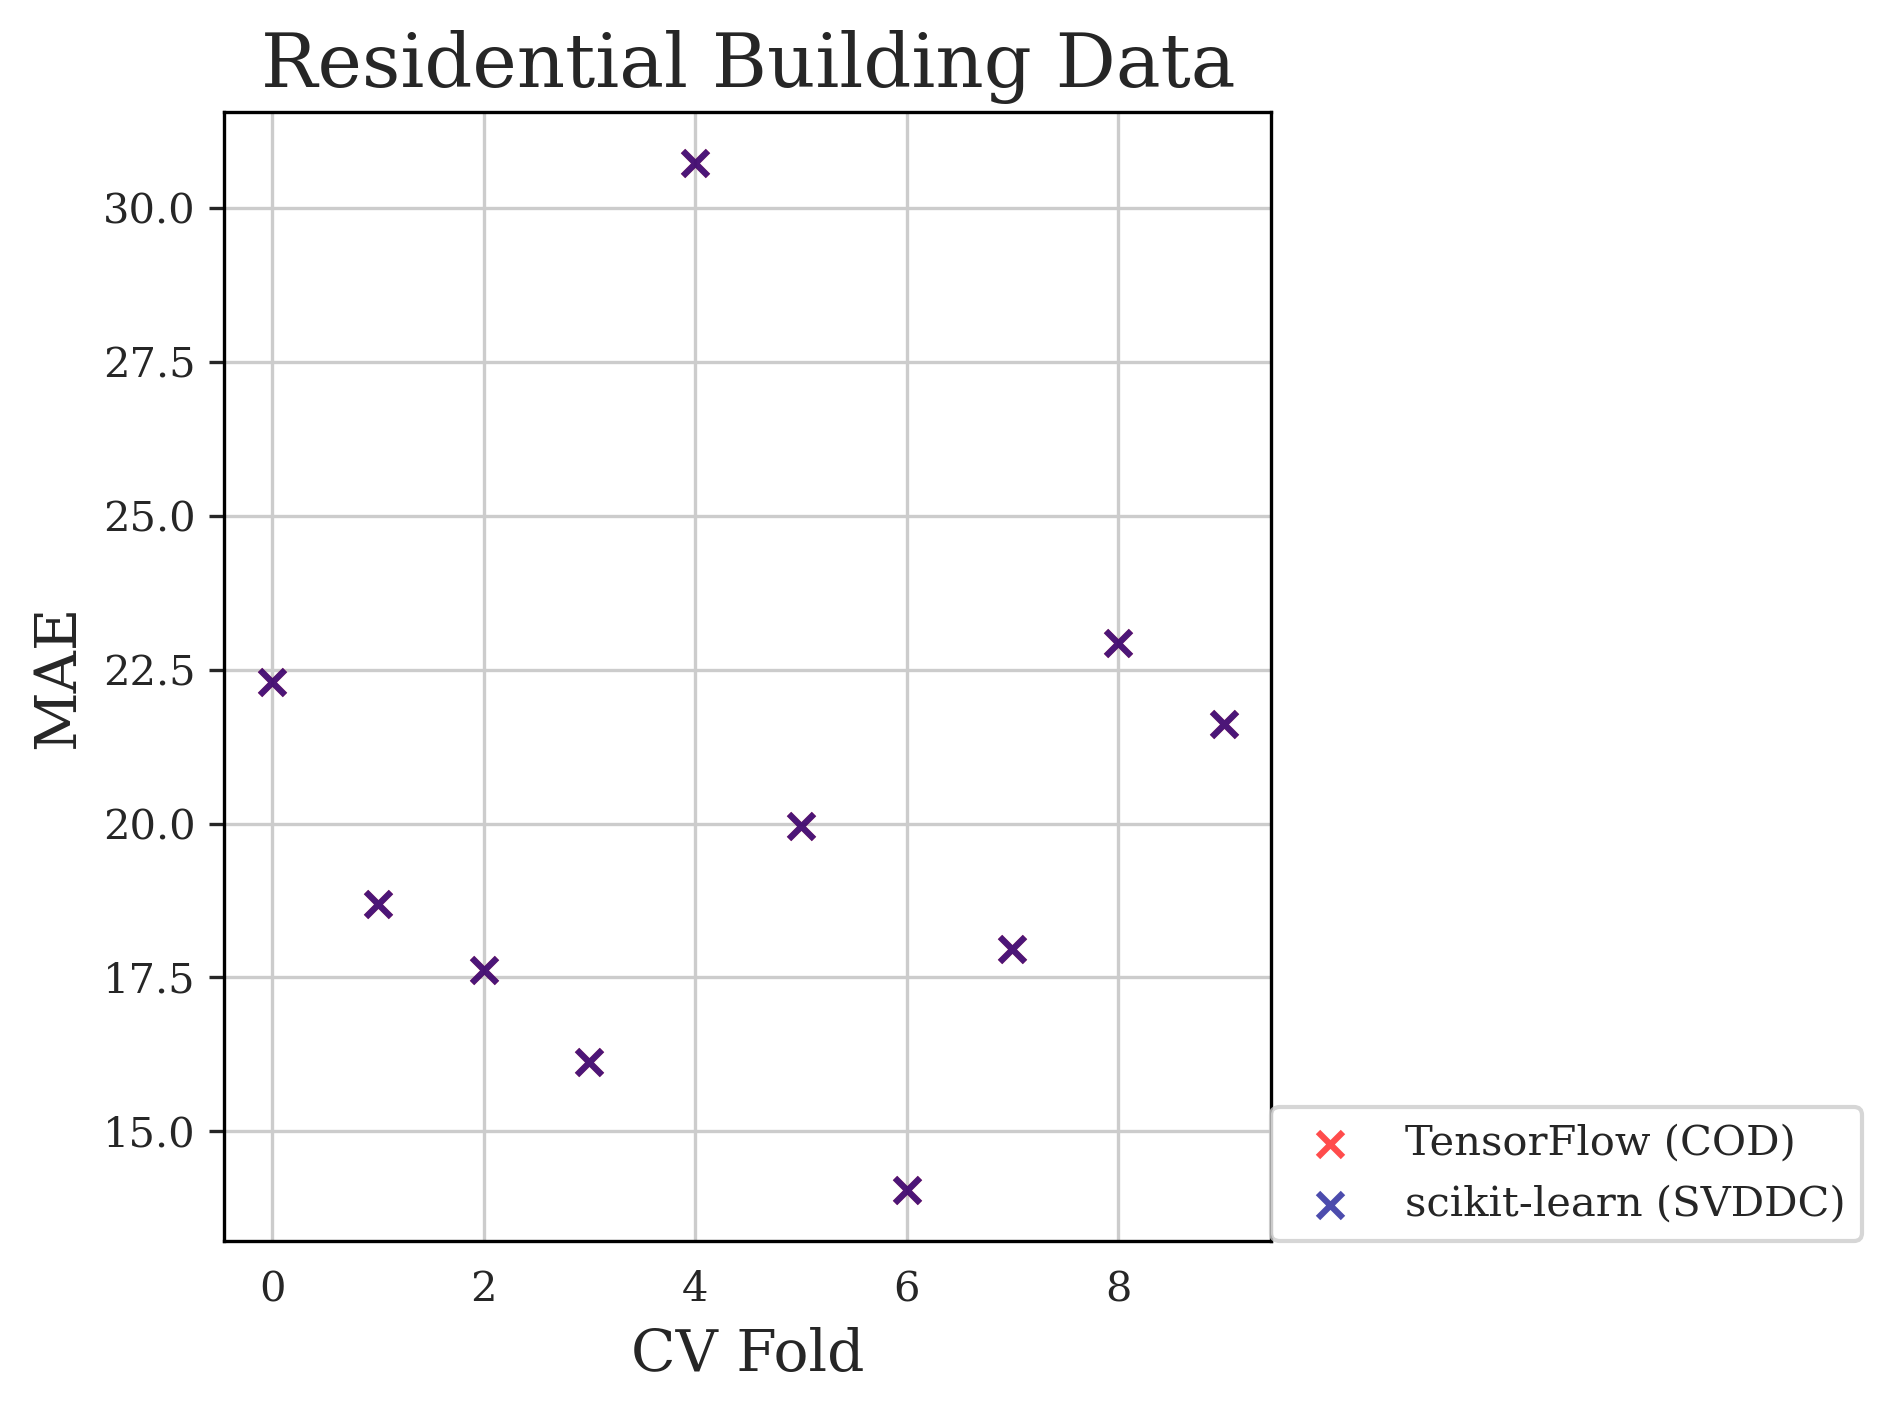
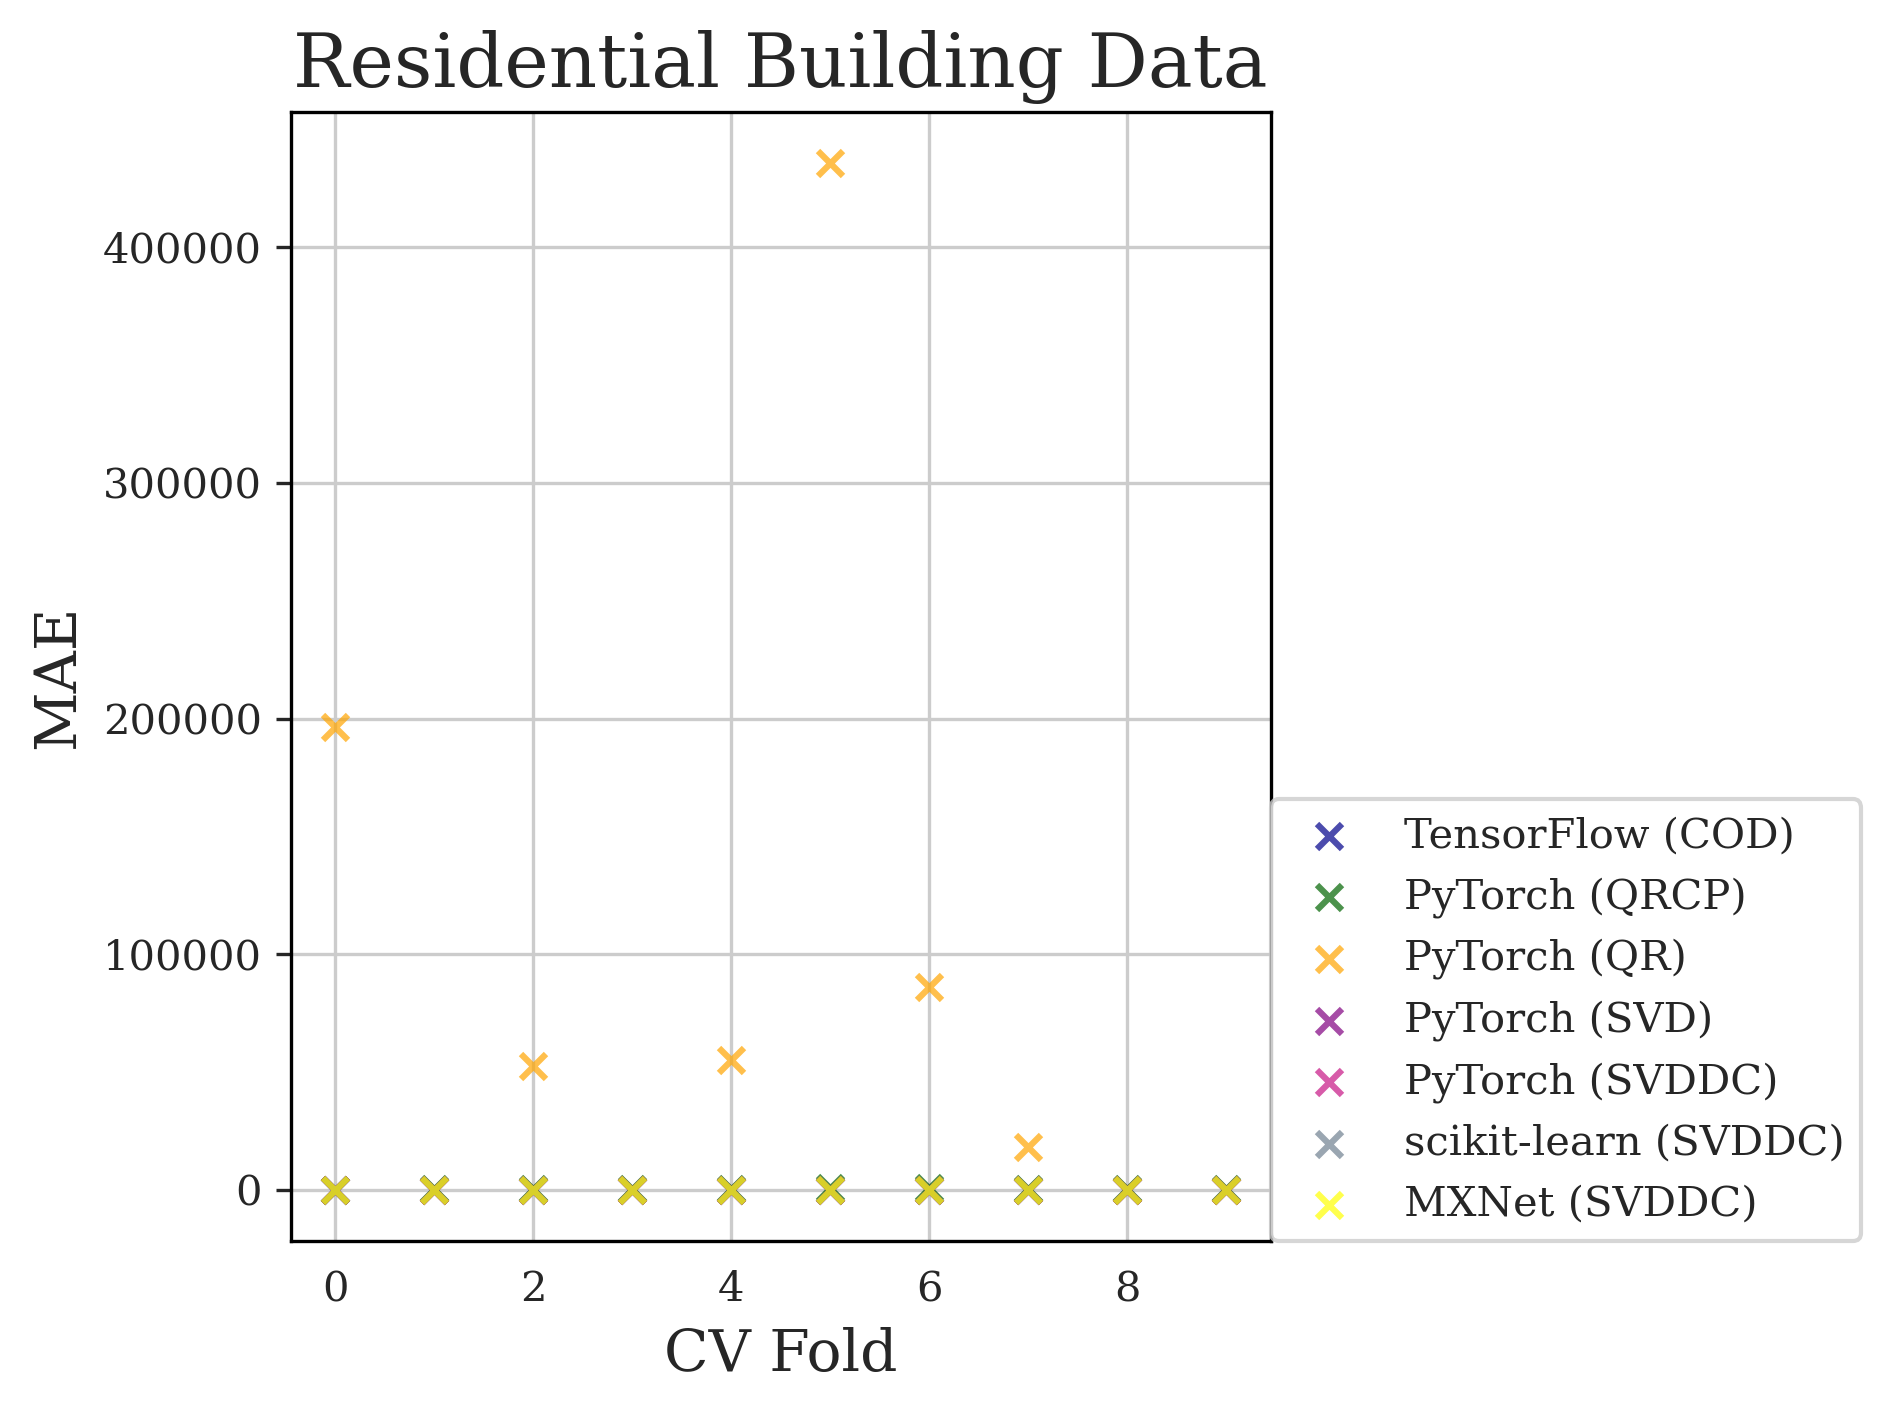
some stuff

diff --git a/BetaDataExper/HighDimData/highdimrun.py b/BetaDataExper/HighDimData/highdimrun.py
@@ -94,6 +94,17 @@ def main(data_path, k_folds, data_name, reg_names):
         "mxnet-svddc": "MXNet (SVDDC)"
     }
     
+    cdict = {
+        "tf-necd": "red",
+        "tf-cod": "darkblue",
+        "pytorch-qrcp": "darkgreen",
+        "pytorch-qr": "orange",
+        "pytorch-svd": "purple",
+        "pytorch-svddc": "mediumvioletred",
+        "sklearn-svddc": "slategray",
+        "mxnet-svddc": "yellow"
+    }
+    
     metric_lst = [
         ("MAE", metrics.mean_absolute_error),
         ("MSE", metrics.mean_squared_error),
@@ -127,15 +138,15 @@ def main(data_path, k_folds, data_name, reg_names):
         results_df = pd.DataFrame(result_accumulator)
         results_df.to_csv(f"BetaDataExper/HighDimData/results/{data_name}-{metric_name}_linreg_comparison.csv")
     
-        with open(f"BetaDataExper/HighDimData/results/{data_name}-{metric_name}_errors", "a") as e_log:
+        with open(f"BetaDataExper/HighDimData/results/{data_name}-{metric_name}_errors.err", "a") as e_log:
             for k, v in err_accumulator.items():
                 e_log.write(f"{k}: {v}\n")
 
         fig, ax = plt.subplots()
-        for color, column in zip(["red", "darkblue", "darkgreen", "orange", "purple", "mediumvioletred", "slategray"],results_df.columns):
+        for column in results_df.columns:
             y = results_df[column]
             x = results_df.index.values
-            ax.scatter(x, y, c=color, alpha=0.7, label=label_lookup[column], marker='x')
+            ax.scatter(x, y, c=cdict[column], alpha=0.7, label=label_lookup[column], marker='x')
 
         ax.set_ylabel(f'{metric_name}')
         ax.set_xlabel('CV Fold')
